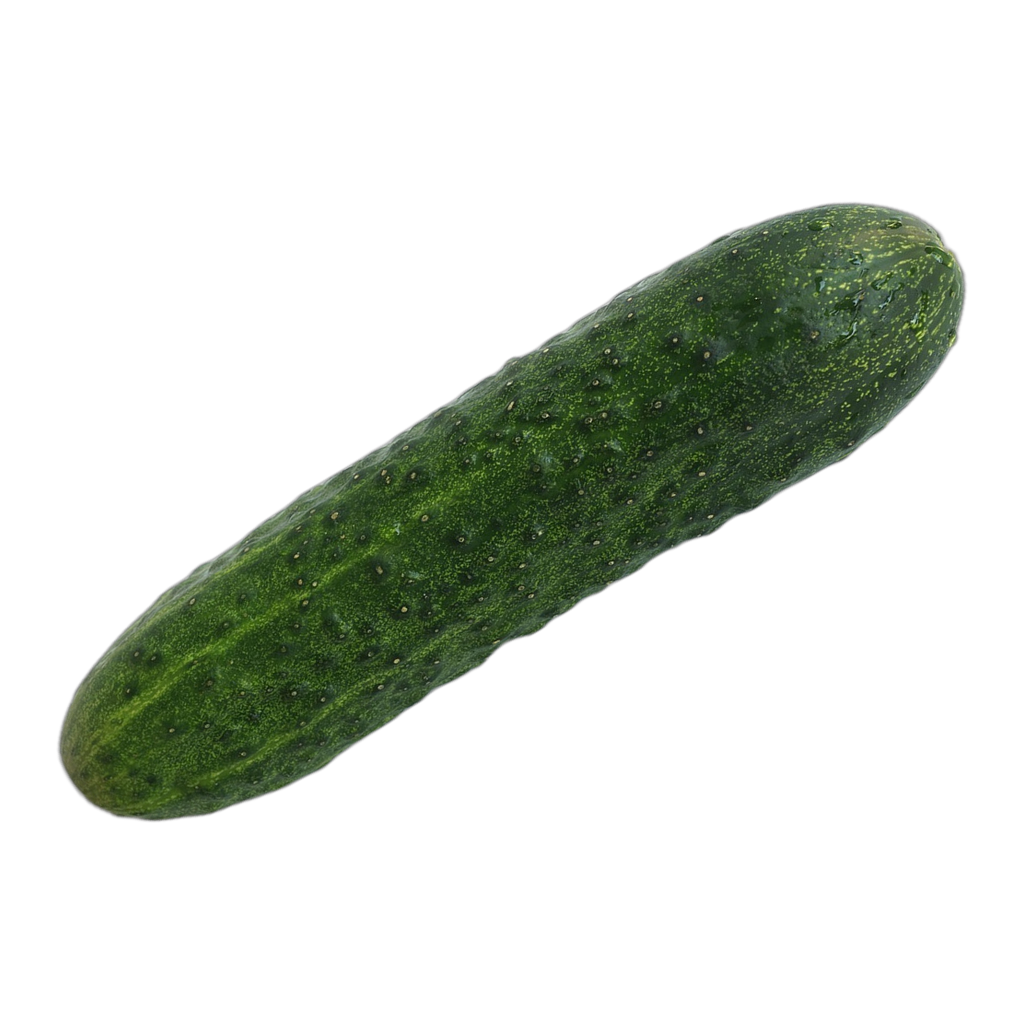
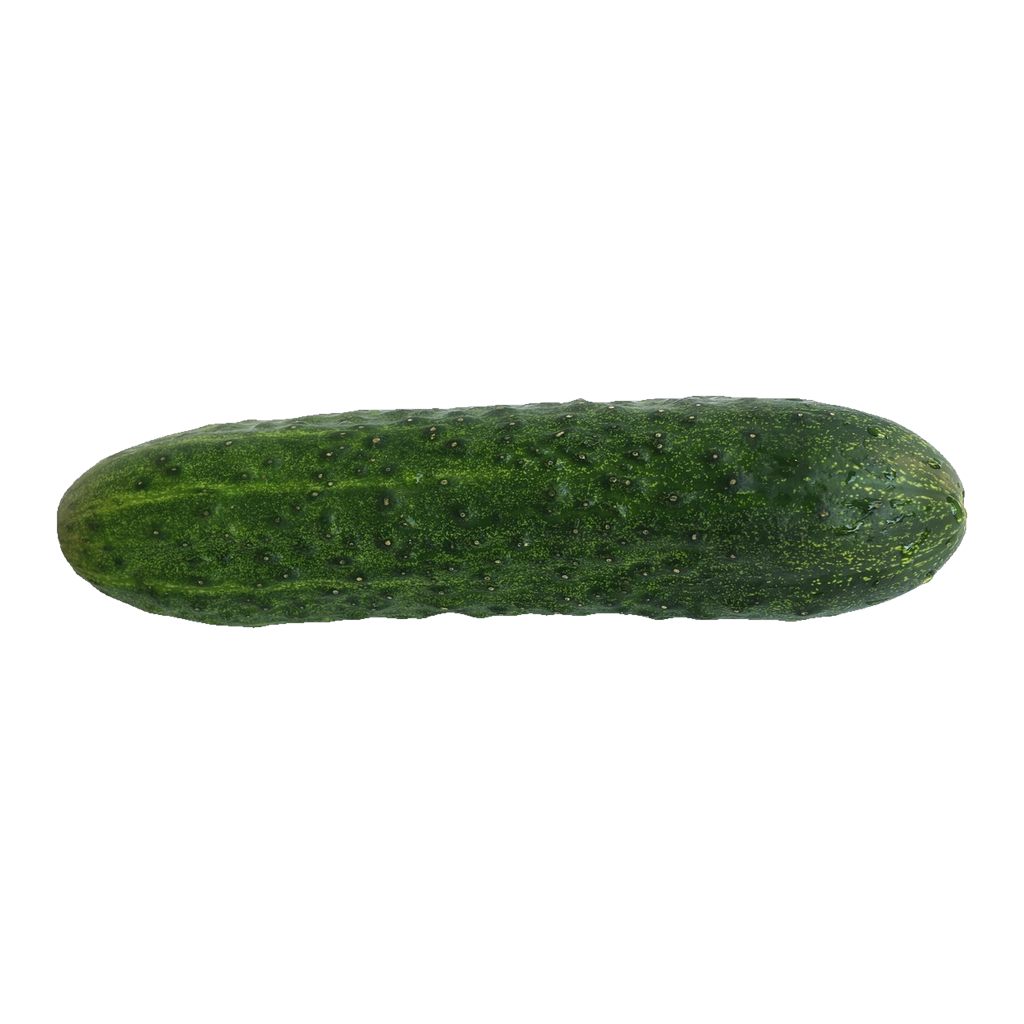
Cucumber photo D (picked by Yunus): straight whole cucumber with a crisp white outline like the other photos

Changed region(s): [[0.0312, 0.1875, 0.9688, 0.8125]]

diff --git a/assets/content/REAL_PHOTOS.md b/assets/content/REAL_PHOTOS.md
@@ -412,9 +412,9 @@ File: `assets/images/produce/cucumber_real.png`
 Photo author: Pavlofox (Pixabay)
 Source: https://pixabay.com/photos/cucumber-green-vegetable-long-845953/
 Source and adaptation license: Pixabay Content License - https://pixabay.com/service/license-summary/
-Changes: One whole cucumber, both tips visible. Foreground alpha with rembg U2Net (original RGB retained), turned 30 degrees so it fills the square card; alpha-bound crop, aspect-preserving Lanczos resize to a 912 px maximum subject extent, centered 1024x1024 RGBA export and 4 px white outer outline. No generative editing.
+Changes: One whole cucumber, both tips visible. Foreground alpha with rembg U2Net (original RGB retained), alpha edge hardened (threshold and 1 px erode) so the white outline is crisp like the other photos; alpha-bound crop, aspect-preserving Lanczos resize to a 912 px maximum subject extent, centered 1024x1024 RGBA export and 4 px white outer outline. No generative editing.
[3 lines of base64/hex data omitted]
 Attempt folder: `artifacts/cucumber-r1/`. Replaces the earlier Commons photo (Yunus, 3 November 2026).
 
 ## produce.mandarin
